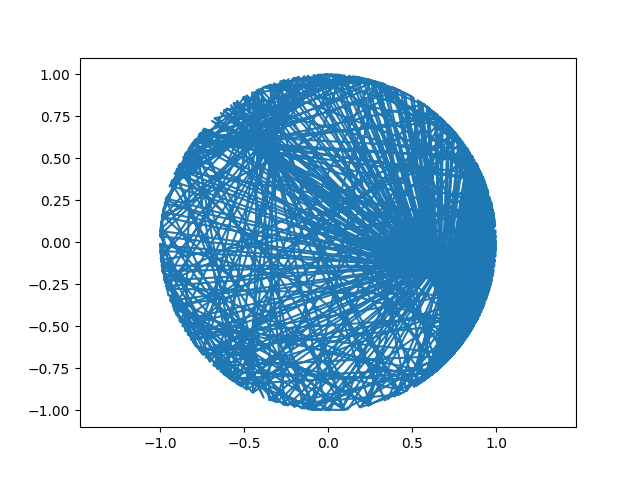
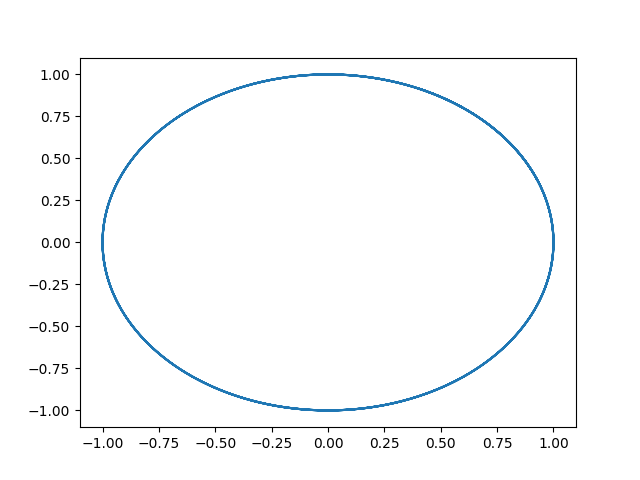
lab 6

diff --git a/lab_6_dop_task2.py b/lab_6_dop_task2.py
@@ -3,7 +3,7 @@ import numpy as np
 import random
 
 def ell(e, p):
-    f = np.linspace(0, 360, 500)
+    f = np.linspace(-np.pi, np.pi, 5000)
     X = []
     Y = []
     for i in f:
@@ -12,8 +12,7 @@ def ell(e, p):
         X.append(x)
         Y.append(y)
     
-    plt.contour(X, Y)
-    plt.axis('equal')
+    plt.plot(X, Y)
     plt.savefig('ell.png')
 
-ell(e=0.9, p=10)
+ell(e=0.5, p=10)
